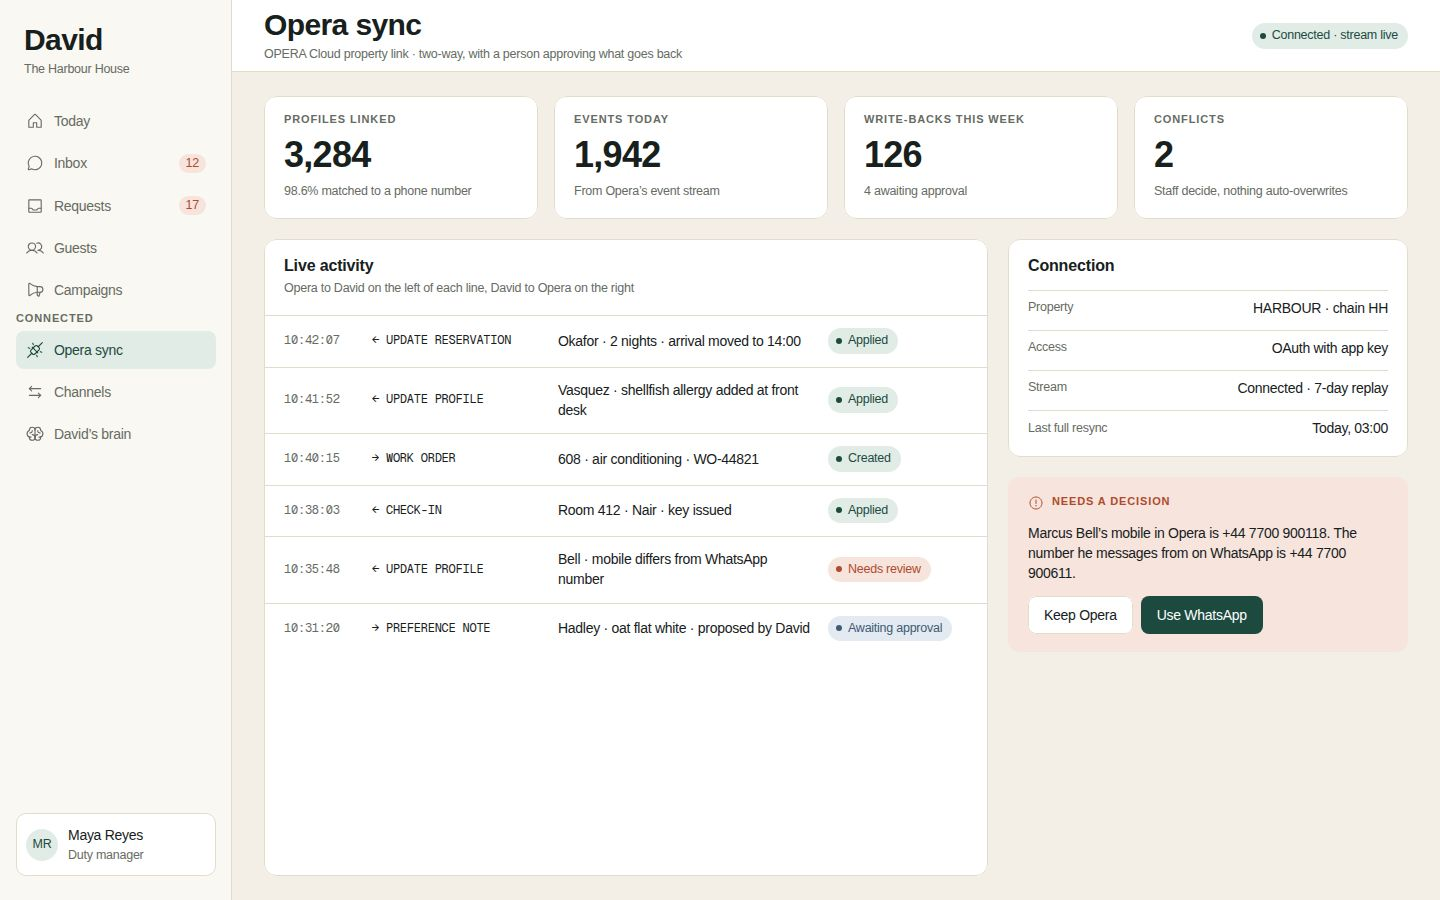
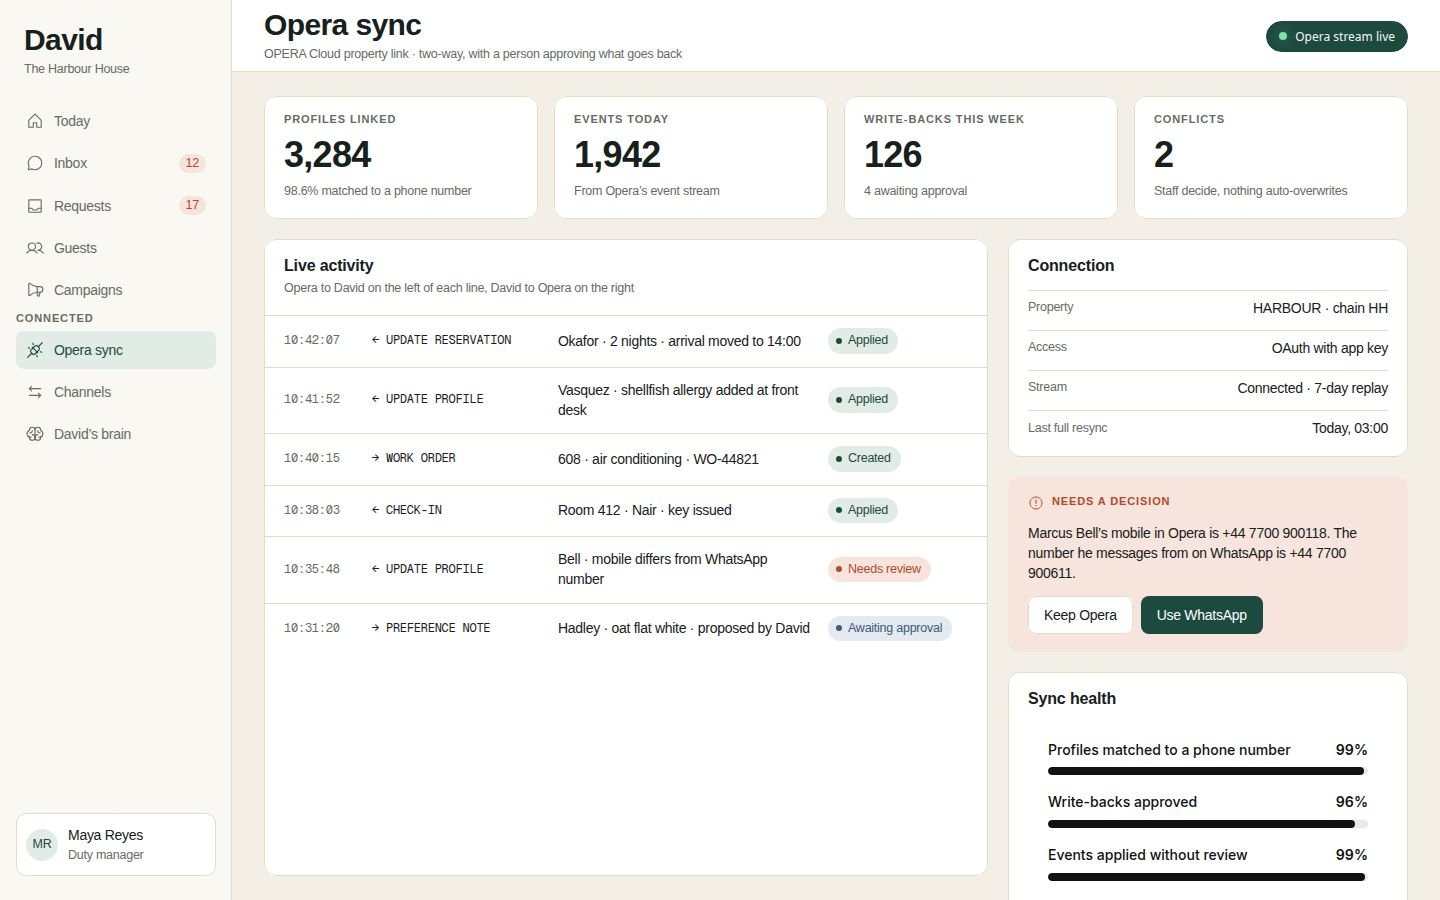
Add full dashboard using the free Marketplace components, refresh screens
A tall dashboard screen with sample data that uses every free Framer
Marketplace component that could be installed. Today, Opera sync and
Requests are refreshed with the Live Indicator, Progress Bar and Dropdown.

Changed region(s): [[0.6875, 0.7467, 1.0, 1.0], [0.875, 0.0, 1.0, 0.0622]]

diff --git a/docs/design/index.html b/docs/design/index.html
@@ -34,6 +34,7 @@
 <footer>Designed in Framer: <a href="https://framer.com/projects/H047xDmCsAQDYfoXrWBV">David — Laptop Console</a>. Images are 1440×900 captures of the Framer canvas. The typeface is Arimo, standing in for Helvetica.</footer>
 <script>
   const screens = [
+    ["12-dashboard", "Dashboard, every component", "A full dashboard with sample data, using all the free Marketplace components that installed"],
     ["01-today", "Today", "Stats, request queue, arrivals from Opera, messages this week"],
     ["02-inbox", "Inbox", "Every channel in one thread, with the Opera guest profile beside it"],
     ["03-guest-opera", "Guest: Opera and David", "Field by field, which system knows what, and what is awaiting approval"],

diff --git a/docs/design/README.md b/docs/design/README.md
@@ -13,6 +13,7 @@ cd docs/design && python3 -m http.server 8123   # then open http://localhost:812
 
 | File | Screen |
 |---|---|
+| `12-dashboard` | Dashboard: every free Marketplace component that installed, filled with sample data |
 | `01-today` | Today: stats, request queue, arrivals read from Opera |
 | `02-inbox` | Inbox: all channels in one thread, Opera guest profile beside it |
 | `03-guest-opera` | Guest: field-by-field Opera and David, with approval state |
@@ -36,3 +37,7 @@ cd docs/design && python3 -m http.server 8123   # then open http://localhost:812
 - These are images, not code. Framer canvases cannot be exported as components from this workflow; the Expo staff app in `app/` is unchanged and still phone-first.
 - Typeface is Arimo, standing in for Helvetica (Framer has no loadable Helvetica). Swap in a licensed Helvetica Neue by uploading it as a custom font in Framer.
 - Opera integration details, such as OAuth and app key, property codes and the event stream, come from Oracle's public integration docs. Access is enabled per hotel by Oracle and needs confirming before any delivery date is promised.
+
+## Marketplace components
+
+Used in the dashboard: KPI Stat Cards, Bar Chart Diagram, Simple SVG Chart, ChartJS, Progress Bar Chart, Smart Toggle Switch, Smooth Toggle Switch, Segment Control, Searchable Dropdown, Spotlight Search Pro, Live Indicator Pro, Status Badge, Badges Kit, Info Tooltip, Bordered Tooltip, Sliding Tab Nav, Tabs NR, Avatar Hover Tooltip, Minimal Avatars, Sales Dashboard and Data Studio Pro. Not usable: WF Charts Lite and Metrics Grid (Framer would not install them). Avatar Group would not accept images, so it renders empty. These ship with their own styling, so several (dark KPI cards, purple toggle, orange tabs) clash with the palette and would need recolouring.
